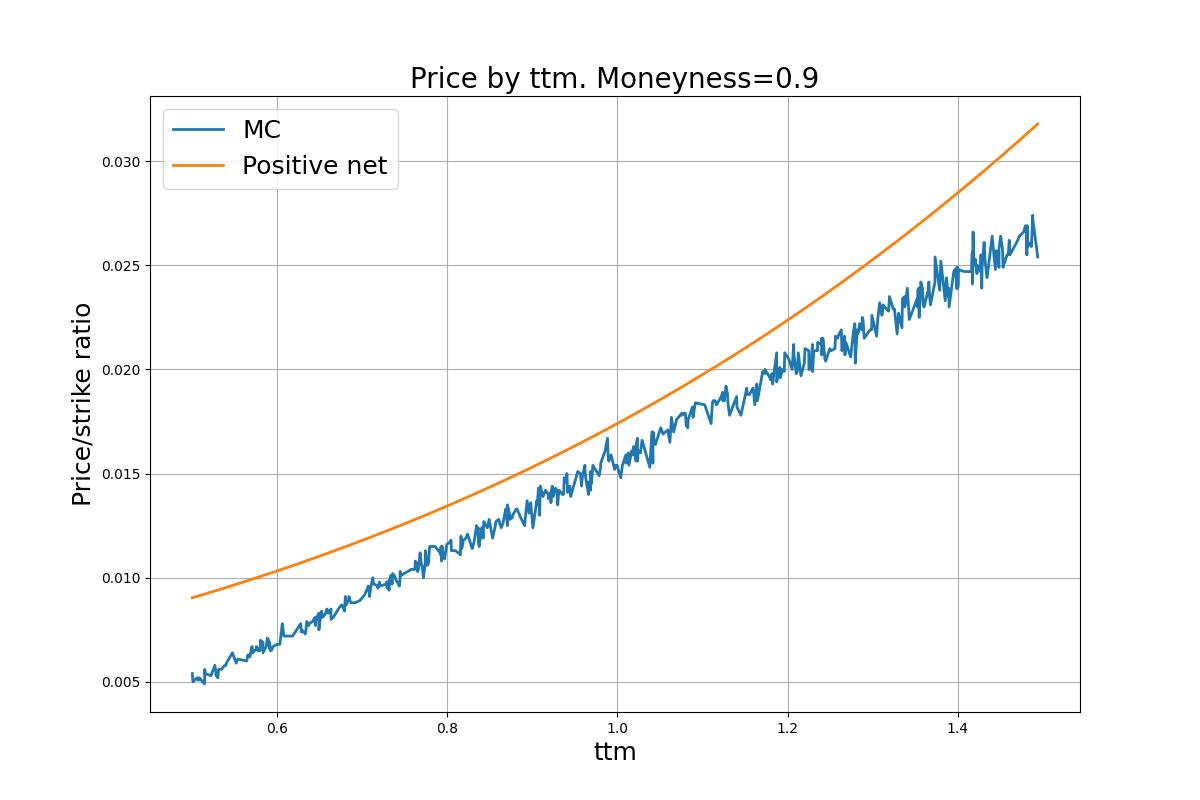
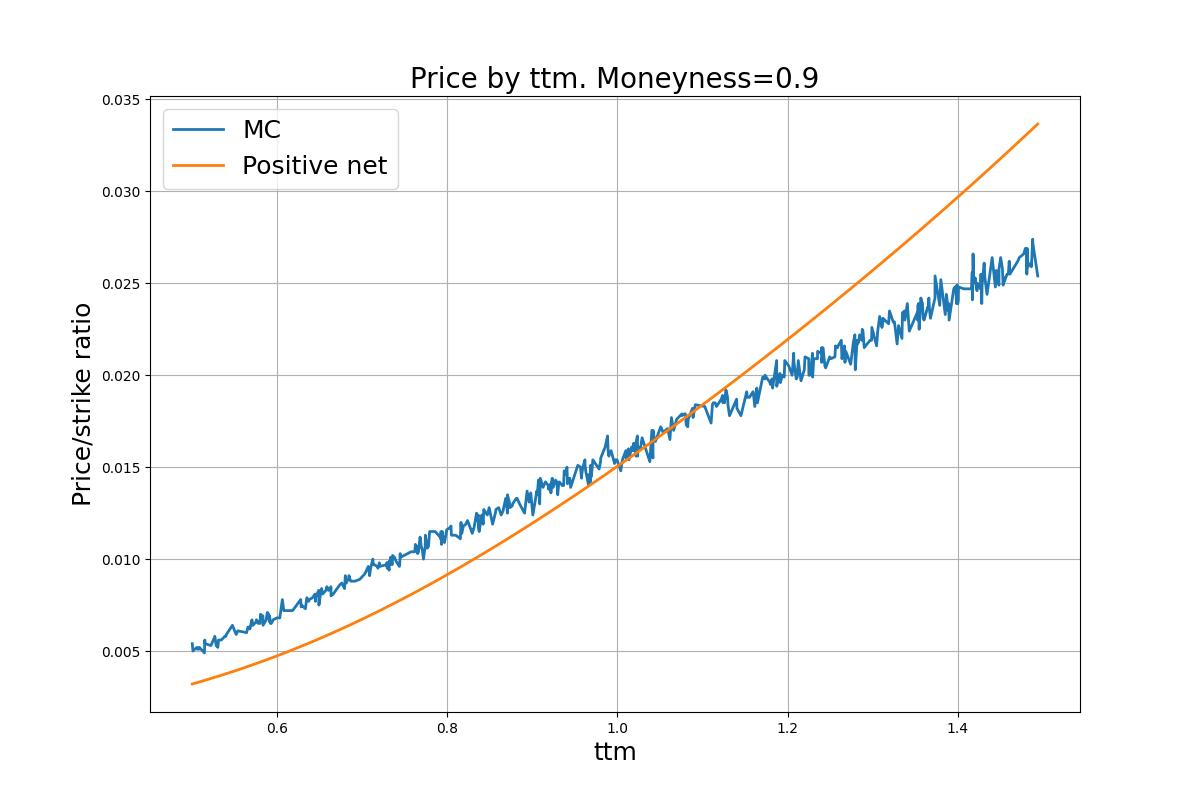
Add good left model

diff --git a/double_net_pricer/pricer.py b/double_net_pricer/pricer.py
@@ -6,7 +6,8 @@ import joblib
 import numpy as np
 import pandas as pd
 
-from double_net_pricer.intrinsic import get_threshold, encode_right, decode_right, only_special_decode
+from double_net_pricer.intrinsic import get_threshold, encode_right, decode_right, right_special_encode_decode, \
+    log_price_decode, log_price_encode
 from main import make_predicted_df
 from positive_network.network import OptionsNet as PositiveNet
 from semipositive_network.network import OptionsNet as SemiPositiveNet
@@ -37,6 +38,8 @@ class DoubleNetPricer:
 
         right_df = encode_right(right_df)
         right_val_df = encode_right(right_val_df)
+        left_df = log_price_encode(left_df)
+        left_val_df = log_price_encode(left_val_df)
 
         left_df_values = left_df[['spot_strike_ratio', 'ttm', 'risk_free_rate', 'volatility']].astype(
             np.float32).to_numpy()
@@ -68,6 +71,7 @@ class DoubleNetPricer:
     # Target field: 'price_strike_ratio'
     def predict_split(self, df: pd.DataFrame, no_decode=False):
         left_df, right_df = self._split_for_left_and_right_net_df(df)
+        left_df = log_price_encode(left_df)
         right_df = encode_right(right_df)
 
         left_df_values = left_df[
@@ -88,7 +92,9 @@ class DoubleNetPricer:
         if not no_decode:
             right_answer_df = decode_right(right_answer_df)
         else:
-            right_answer_df = only_special_decode(right_answer_df)
+            right_answer_df = log_price_decode(right_special_encode_decode(right_answer_df))
+
+        left_answer_df = log_price_decode(left_answer_df)
 
         return left_answer_df, right_answer_df
 
@@ -113,14 +119,14 @@ class DoubleNetPricer:
 
 
 if __name__ == '__main__':
-    left_model = joblib.load('models/left-2024-02-26 00:32:11.761148.sav')
-    right_model = joblib.load('models/right-2024-02-26 01:56:32.769465.sav')
+    left_model = joblib.load('models/left-2024-03-04 15:40:51.111126.sav')
+    right_model = joblib.load('models/right-2024-03-04 14:56:56.240905.sav')
     pricer = DoubleNetPricer(left_model, right_model)
 
     train_df = pd.read_csv('../prices_mc_20000_paths_5000.csv')
     test_df = pd.read_csv('../prices_mc_20k_test_paths_1000.csv')
 
-    # pricer.fit(train_df, test_df, which='right')
+    pricer.fit(train_df, test_df, which='left')
 
     df_test_left, df_test_right = pricer.predict_split(test_df)
     df_train_left, df_train_right = pricer.predict_split(train_df)

diff --git a/double_net_pricer/intrinsic.py b/double_net_pricer/intrinsic.py
@@ -4,6 +4,7 @@ import pandas as pd
 import settings
 
 N = settings.NUMBER_OF_STEPS
+ADD_VALUE_TO_LOG = 20
 discount_factors = np.exp(-np.arange(0, N + 1) / N)
 
 
@@ -21,33 +22,53 @@ def _get_intrinsic_value(row) -> float:
 
     return intrinsic_val if intrinsic_val > 0 else 0
 
+
+def encode_left(df: pd.DataFrame) -> pd.DataFrame:
+    return log_price_encode(df)
+
+def decode_left(df: pd.DataFrame) -> pd.DataFrame:
+    return log_price_decode(df)
+
+
 def encode_right(df: pd.DataFrame) -> pd.DataFrame:
     df = add_subtracted_intrinsic_value(df)
     df['price_strike_ratio'] = df['subtracted_int_val']
     df = df.drop(columns='subtracted_int_val')
 
-    # Required to be able to use the network, increasing w.r.t. params
-    df['spot_strike_ratio'] = -df['spot_strike_ratio']
-    df['risk_free_rate'] = -df['risk_free_rate']
+    df = log_price_encode(df)
 
-    return df
+    return right_special_encode_decode(df)
 
 
 def decode_right(df: pd.DataFrame) -> pd.DataFrame:
+    df = log_price_decode(df)
+
     df['int_val'] = df.apply(_get_intrinsic_value, axis=1)
     df['monte_carlo_price'] = df['monte_carlo_price'] + df['int_val']
     df['net_price'] = df['net_price'] + df['int_val']
     df = df.drop(columns='int_val')
 
+    return right_special_encode_decode(df)
+
+
+def right_special_encode_decode(df: pd.DataFrame) -> pd.DataFrame:
+    # Required to be able to use network, increasing w.r.t. params
     df['spot_strike_ratio'] = -df['spot_strike_ratio']
     df['risk_free_rate'] = -df['risk_free_rate']
 
     return df
 
 
-def only_special_decode(df: pd.DataFrame) -> pd.DataFrame:
-    df['spot_strike_ratio'] = -df['spot_strike_ratio']
-    df['risk_free_rate'] = -df['risk_free_rate']
+def log_price_encode(df: pd.DataFrame) -> pd.DataFrame:
+    df.loc[df['price_strike_ratio'] <= 0, 'price_strike_ratio'] = 0.0001
+    df['price_strike_ratio'] = np.log(df['price_strike_ratio']) + ADD_VALUE_TO_LOG
+
+    return df
+
+
+def log_price_decode(df: pd.DataFrame) -> pd.DataFrame:
+    df['monte_carlo_price'] = np.exp(df['monte_carlo_price'] - ADD_VALUE_TO_LOG)
+    df['net_price'] = np.exp(df['net_price'] - ADD_VALUE_TO_LOG)
 
     return df
 

diff --git a/positive_network/network.py b/positive_network/network.py
@@ -14,9 +14,9 @@ from .modules.linear_bias_positive import LinearBiasPositive
 class OptionsNet:
     def __init__(self, in_features: int):
         self.net = nn.Sequential(
-            LinearPositive(in_features, in_features * 8),
+            LinearPositive(in_features, 256),
             nn.Sigmoid(),
-            LinearBiasPositive(in_features * 8, 1)
+            LinearBiasPositive(256, 1)
         )
         # self.net = nn.Sequential(
         #     nn.Linear(in_features, in_features * 32),
@@ -29,6 +29,7 @@ class OptionsNet:
         # )
         self.criterion = nn.MSELoss()
         self.optim = torch.optim.Adam(self.net.parameters(), lr=3e-4, betas=(0.9, 0.999), eps=1e-8)
+        # self.scheduler = torch.optim.lr_scheduler.ExponentialLR(self.optim, gamma=0.99985)
         self.scheduler = torch.optim.lr_scheduler.ExponentialLR(self.optim, gamma=1)
         # self.scheduler = torch.optim.lr_scheduler.ReduceLROnPlateau(self.optim, 'min', factor=0.5, patience=100)
 
@@ -48,6 +49,11 @@ class OptionsNet:
                 self.optim.zero_grad()
                 predict = self.net.forward(x)
                 loss = self.criterion.forward(predict, y.unsqueeze(1))
+
+                l1_lambda = 3e-4
+                l1_norm = sum(torch.linalg.norm(p, 1) for p in self.net.parameters())
+                loss += l1_lambda * l1_norm
+
                 loss.backward()
                 self.optim.step()
                 tmp_loss.append(loss.item())
@@ -61,6 +67,11 @@ class OptionsNet:
                     y = torch.from_numpy(y_batch)
                     predict = self.net.forward(x)
                     loss = self.criterion.forward(predict, y.unsqueeze(1))
+
+                    l1_lambda = 3e-4
+                    l1_norm = sum(torch.linalg.norm(p, 1) for p in self.net.parameters())
+                    loss += l1_lambda * l1_norm
+
                     tmp_loss.append(loss.item())
                 val_loss.append(sum(tmp_loss) / len(tmp_loss))
 

diff --git a/semipositive_network/network.py b/semipositive_network/network.py
@@ -20,7 +20,7 @@ class OptionsNet:
         )
         self.criterion = nn.MSELoss()
         self.optim = torch.optim.Adam(self.net.parameters(), lr=3e-4, betas=(0.9, 0.999), eps=1e-8)
-        self.scheduler = torch.optim.lr_scheduler.ExponentialLR(self.optim, gamma=0.9998)
+        self.scheduler = torch.optim.lr_scheduler.ExponentialLR(self.optim, gamma=0.99985)
 
     def fit(self, x_train: np.ndarray, y_train: np.ndarray, x_val: np.ndarray, y_val: np.ndarray, analytics_mode: bool = False) -> Tuple[List[float], List[float]]:
         # x_train, x_val, y_train, y_val = train_test_split(x_train, y_train, test_size=0.2)

diff --git a/double_net_pricer/graphs.py b/double_net_pricer/graphs.py
@@ -33,8 +33,8 @@ def create_convexity_plots(pricer: DoubleNetPricer):
 
 
 if __name__ == '__main__':
-    left_model = joblib.load('models/left-2024-02-26 00:32:11.761148.sav')
-    right_model = joblib.load('models/right-2024-02-26 01:56:32.769465.sav')
+    left_model = joblib.load('models/left-2024-03-04 15:44:31.260330.sav')
+    right_model = joblib.load('models/right-2024-03-04 14:56:56.240905.sav')
     pricer = DoubleNetPricer(left_model, right_model)
 
     create_convexity_plots(pricer)

diff --git a/utils/plotting.py b/utils/plotting.py
@@ -10,8 +10,8 @@ from settings import NUMBER_OF_STEPS
 
 def create_chart(train_loss: List[float], val_loss: List[float], folder: str, tag: str = '', strict_path: str = None):
     plt.figure(figsize=(8, 6))
-    plt.plot(np.arange(len(train_loss)), train_loss, label='Train')
     plt.plot(np.arange(len(val_loss)), val_loss, label='Validation')
+    plt.plot(np.arange(len(train_loss)), train_loss, label='Train')
     plt.xlabel('Epoch number')
     plt.ylabel('Loss')
     plt.grid()
